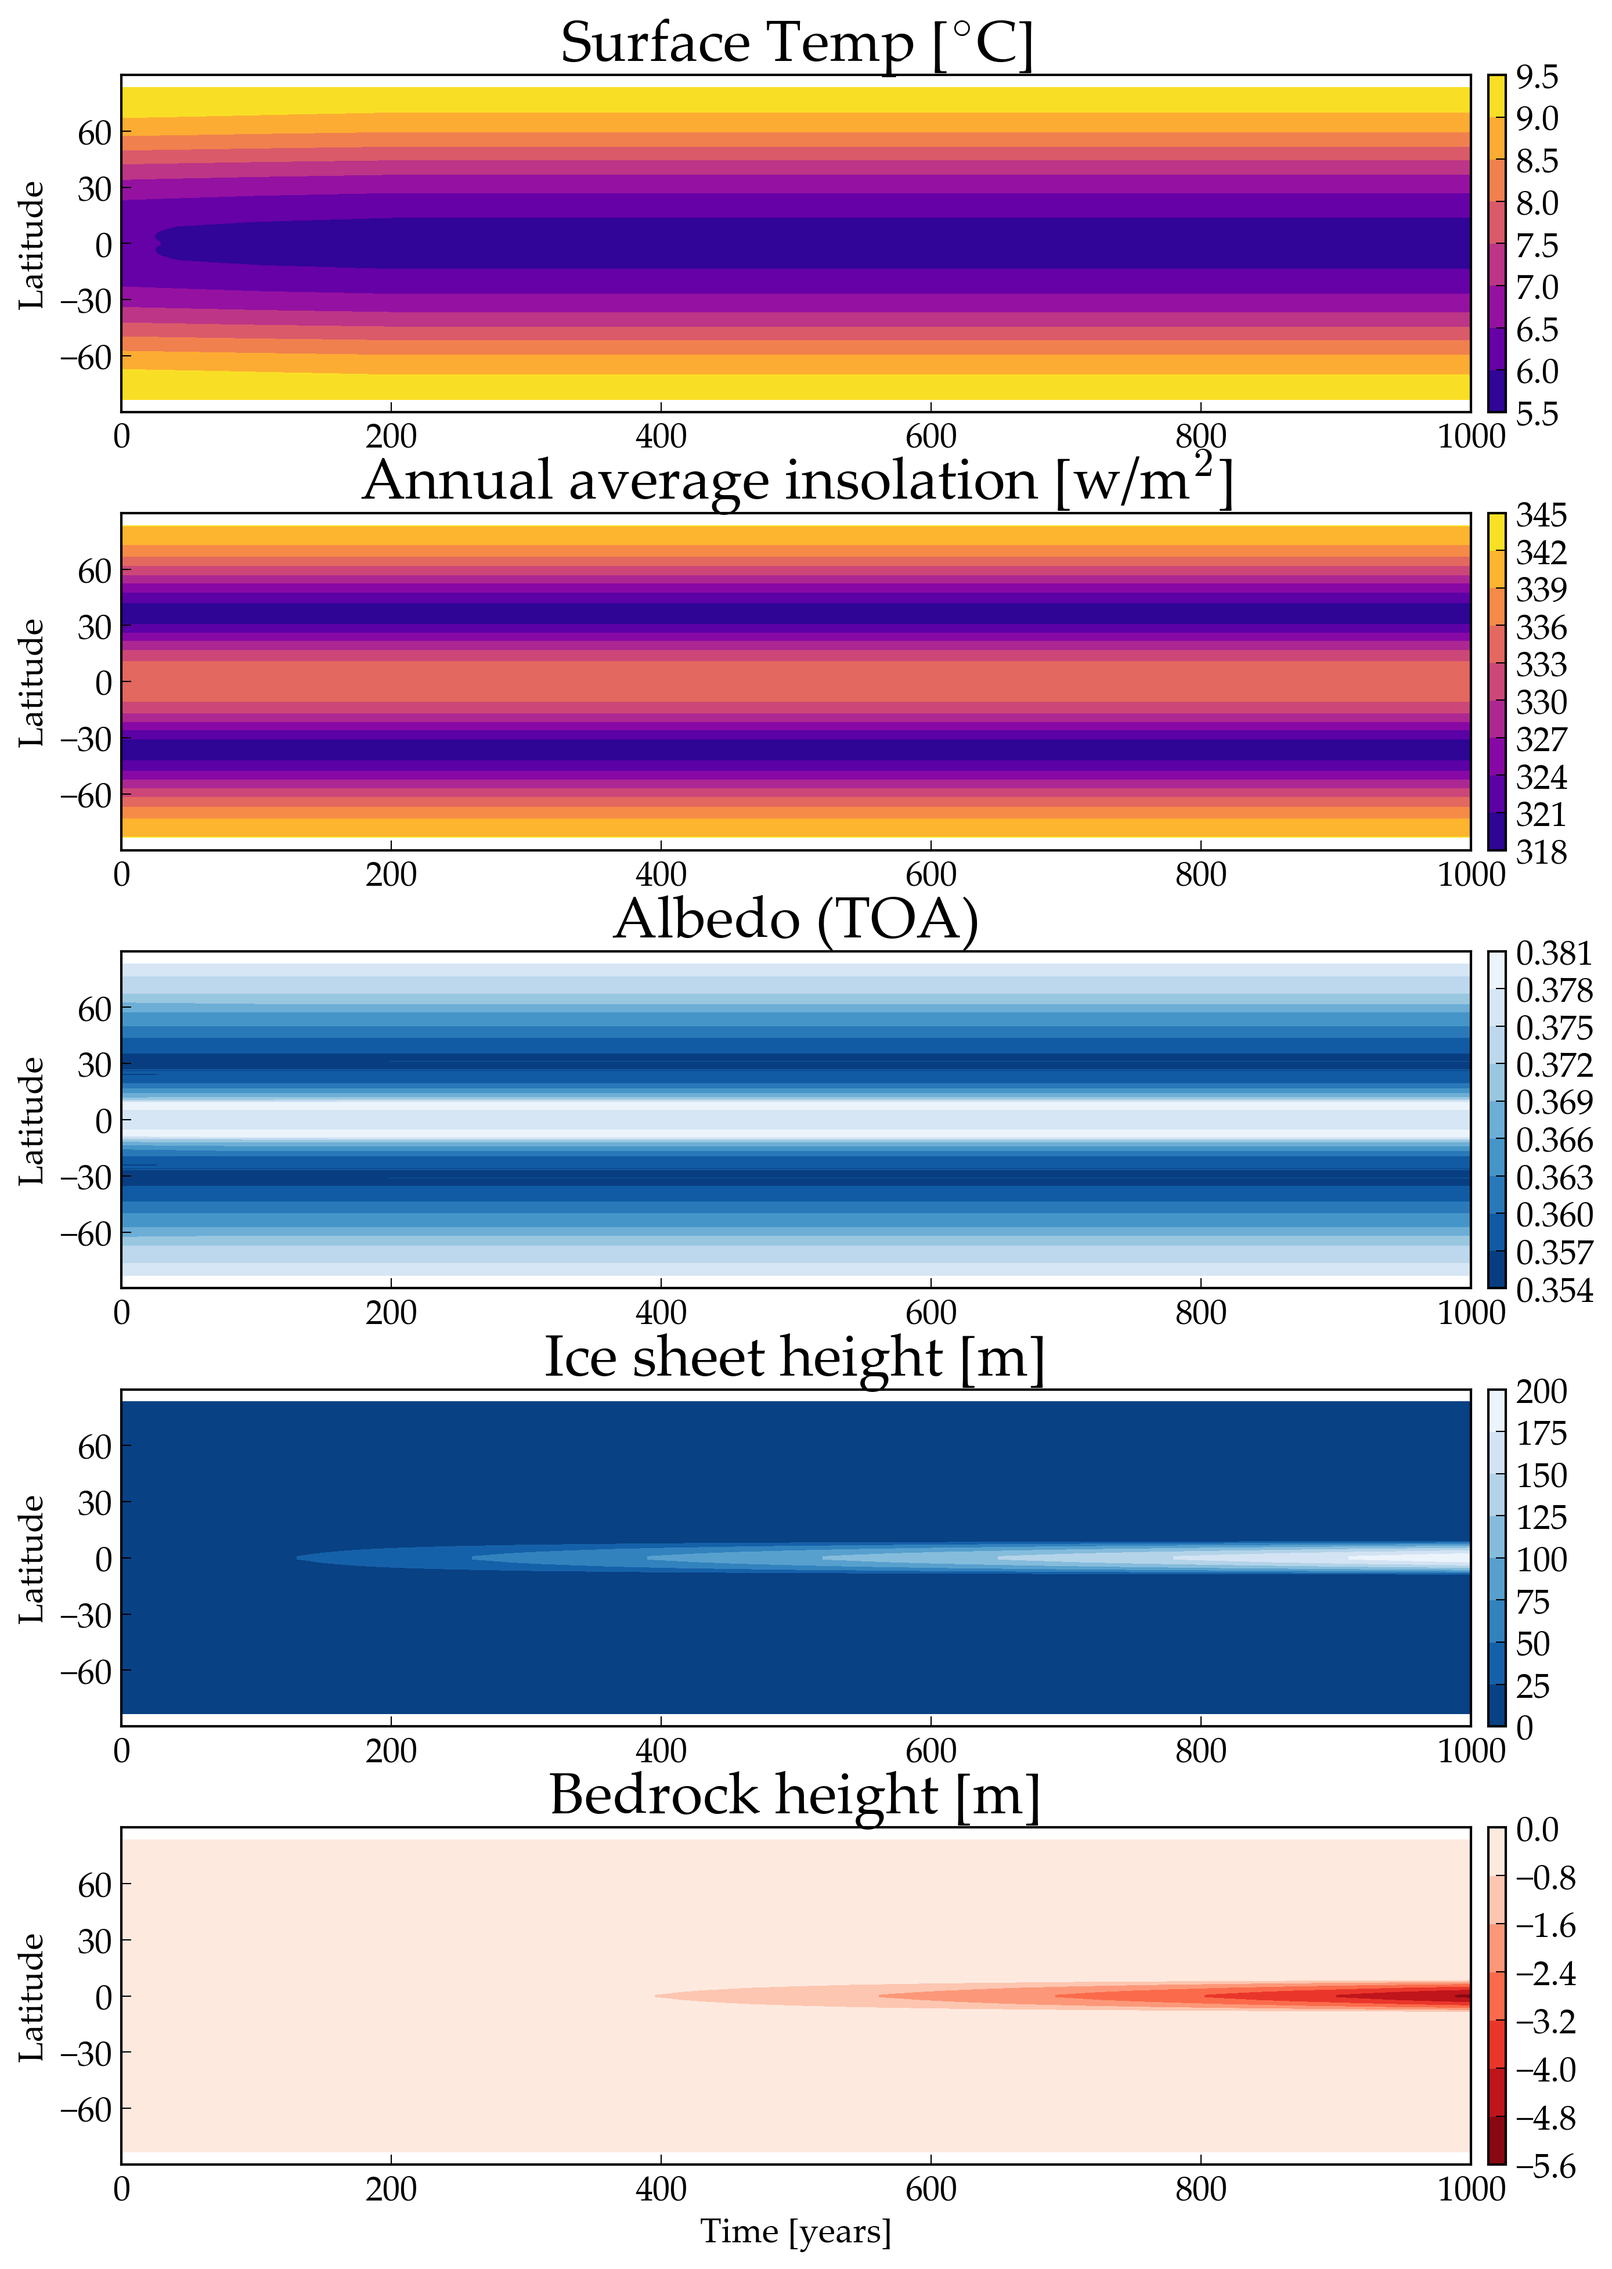
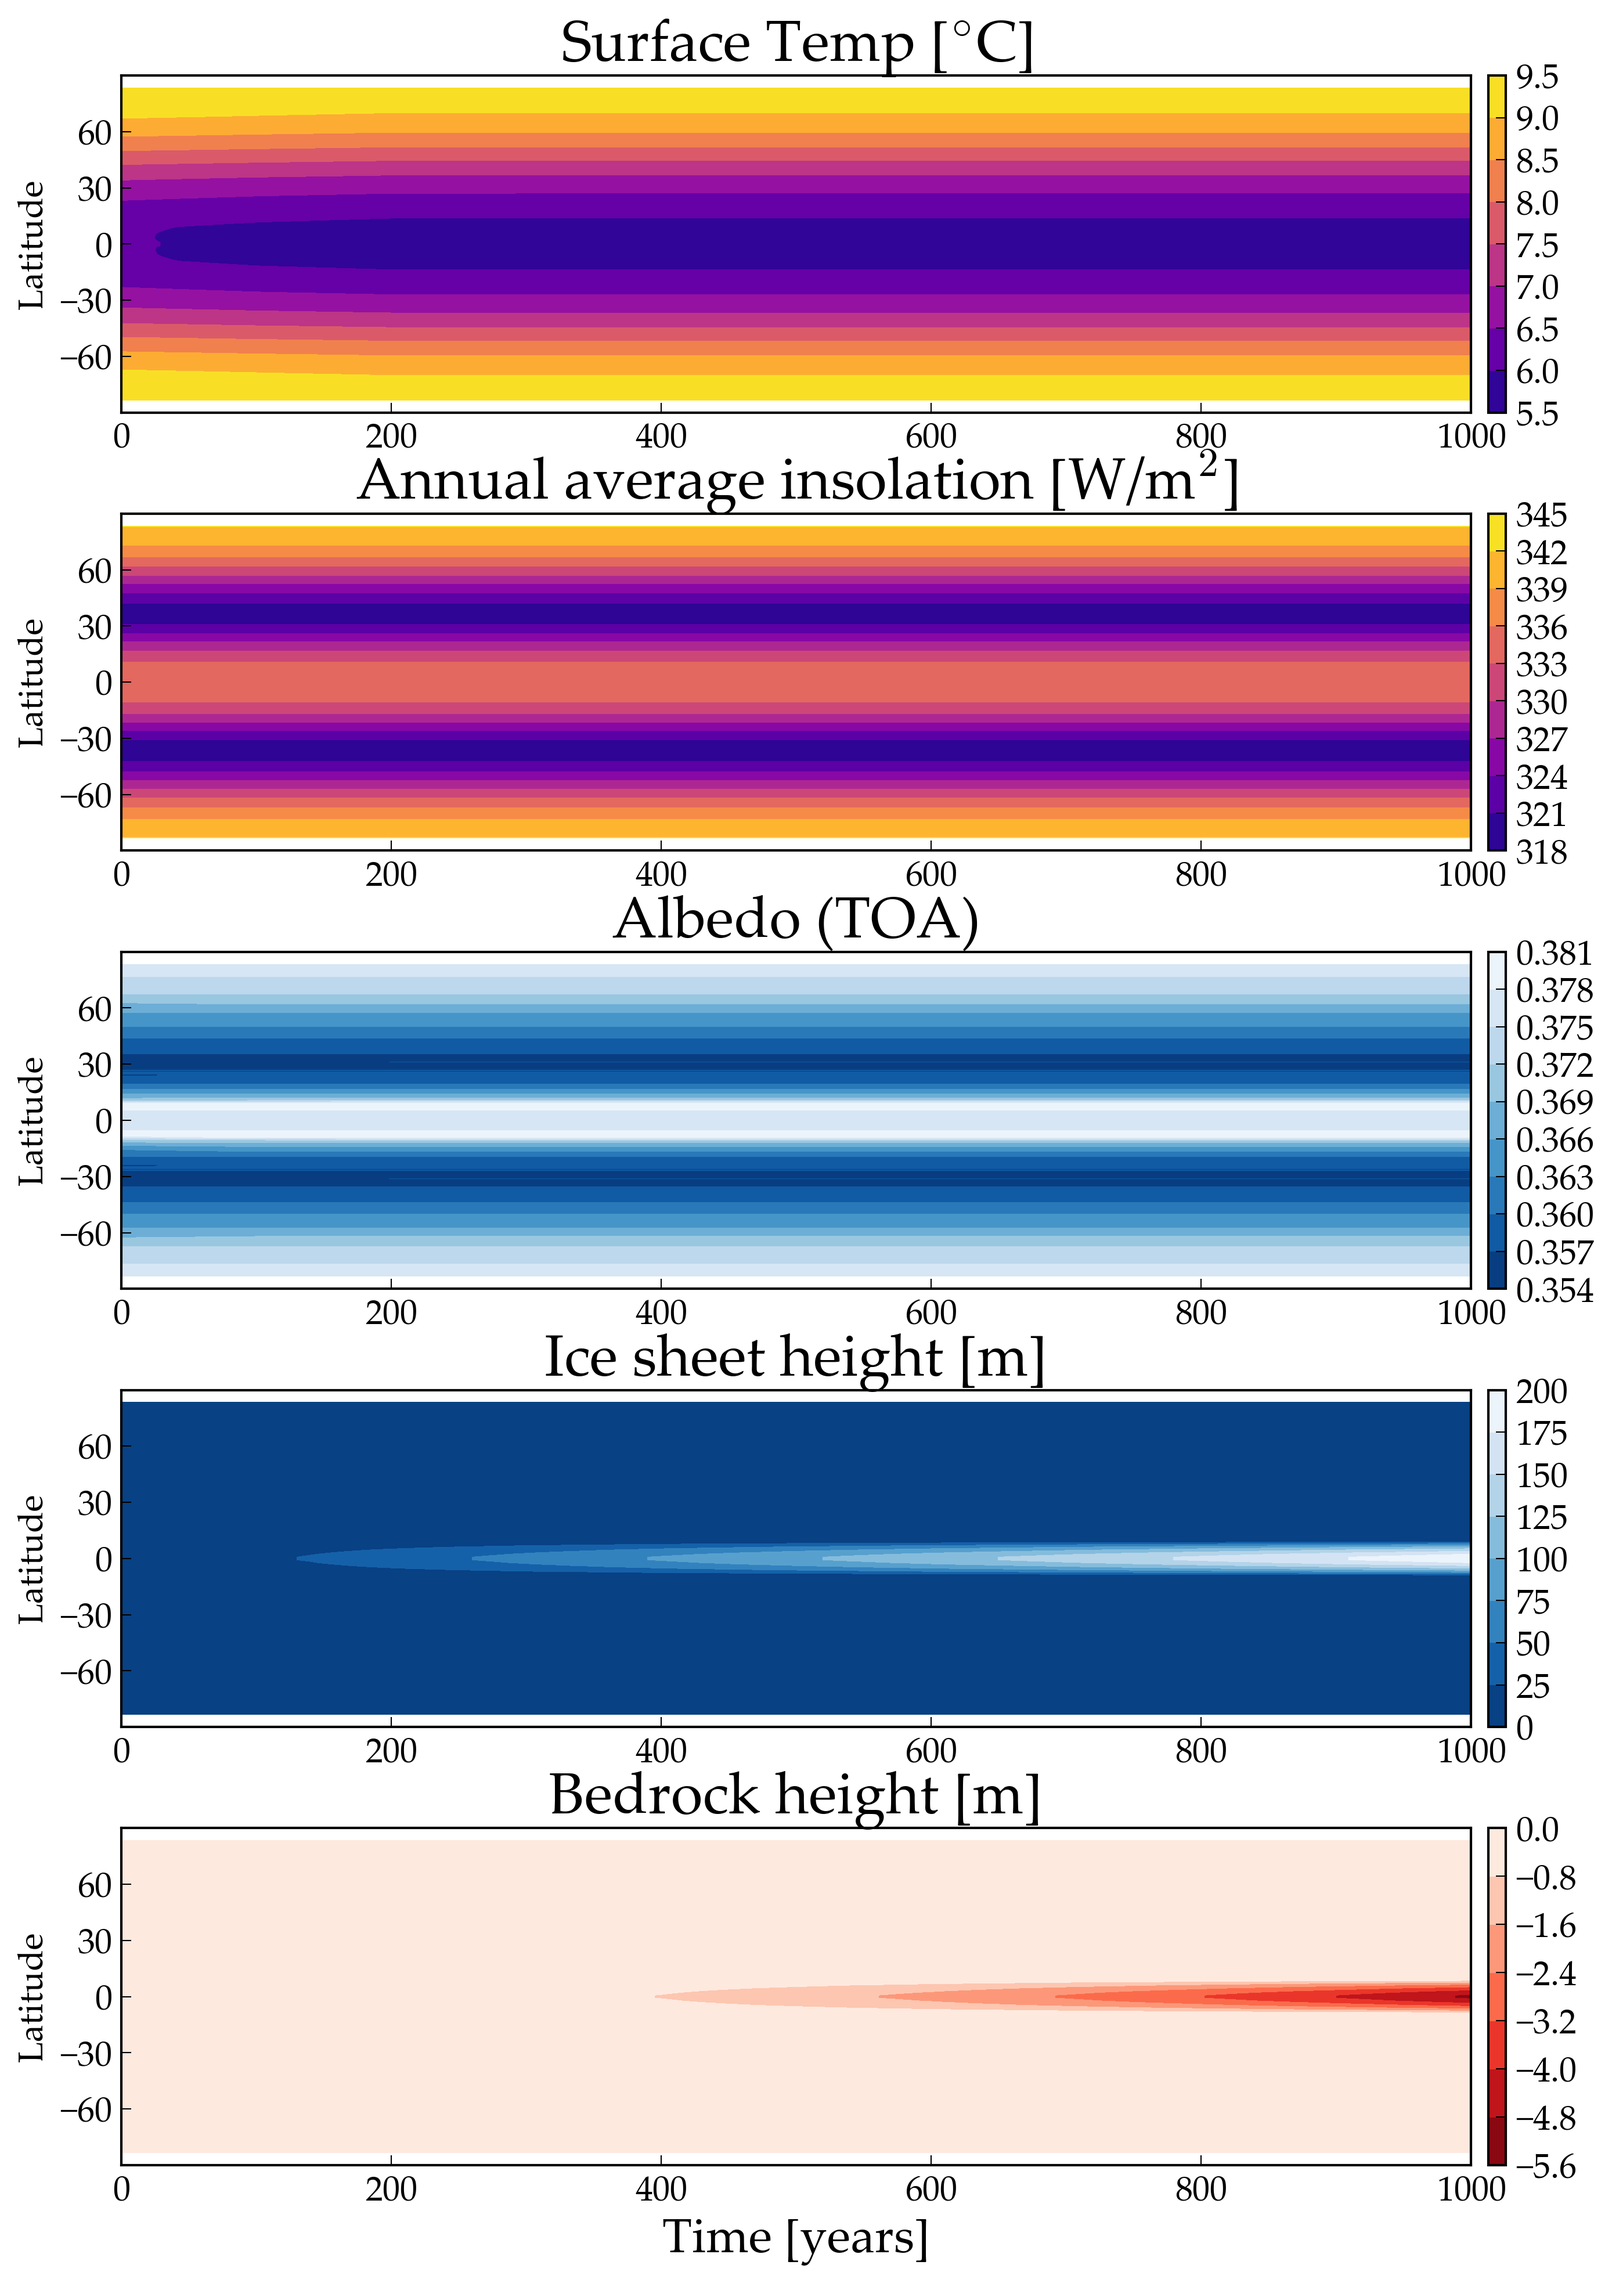
Checked formation of polar ice caps and it works for Earth.
Tidied examples/IceBelts.

diff --git a/examples/IceBelts/makeplot.py b/examples/IceBelts/makeplot.py
@@ -187,7 +187,7 @@ def clim_evol(plname,dir='.',xrange=False,orbit=False,show=True):
     plt.title('Bedrock height [m]')
     plt.ylim(-90,90)
     plt.yticks([-60,-30,0,30,60])
-    plt.xlabel('Time [years]')
+    plt.xlabel('Time [years]',fontsize=20)
     if xrange:
       plt.xlim(xrange)
     plt.colorbar(c,cax=plt.axes([pos[1,0]+0.01,pos[0,1],0.01,pos[1,1]-pos[0,1]]))
@@ -202,7 +202,7 @@ def clim_evol(plname,dir='.',xrange=False,orbit=False,show=True):
     pos = ax5.figbox.get_points()
     c = plt.contourf(body.Time,lats,insol.T,cmap='plasma')
     plt.ylabel('Latitude')
-    plt.title(r'Annual average insolation [w/m$^2$]')
+    plt.title(r'Annual average insolation [W/m$^2$]')
     plt.ylim(-90,90)
     plt.yticks([-60,-30,0,30,60])
     if xrange:
@@ -291,8 +291,8 @@ def seasonal_maps(time, dir = '.', show = True):
         tempf = dirf+'/'+sysname+'.'+plname+'.SeasonalTemp.'+timestamp
         icef = dirf+'/'+sysname+'.'+plname+'.SeasonalIceBalance.'+timestamp
         check = 1
-    print(insolf,tempf,icef)
-    exit()
+    #print(insolf,tempf,icef)
+    #exit()
 
     if check == 0:
       raise StandardError('Climate data not found for time %f'%time)
@@ -342,27 +342,30 @@ def seasonal_maps(time, dir = '.', show = True):
     #fig.suptitle('Time = %f, Obl = %f, Ecc = %f, LongP = %f'%(time,obl,ecc,longp),fontsize=20)
     plt.subplot(1,3,1)
     fig.subplots_adjust(wspace=0.3)
-    plt.title(r'Insolation [W/m$^2$] (1 orbit)',fontsize=12)
+    plt.title(r'Insolation [W/m$^2$]',fontsize=12)
     c1=plt.contourf(np.arange(np.shape(insol)[1]),lats,insol,cmap='plasma')
     plt.colorbar(c1)
     plt.ylim(lats[0],lats[-1])
+    plt.xlabel('Time (days)')
     plt.ylabel('Latitude (degrees)')
 
     scale = 4*np.shape(insol)[1]/np.shape(temp)[1]
     plt.subplot(1,3,2)
     c2=plt.contourf(np.arange(np.shape(temp)[1])*scale,lats,temp,cmap='plasma')
-    plt.title(r'Surface Temp [$^{\circ}$C] (1 orbit)',fontsize=12)
+    plt.title(r'Surface Temp [$^{\circ}$C]',fontsize=12)
     plt.colorbar(c2)
     plt.ylim(lats[0],lats[-1])
     plt.ylabel('Latitude (degrees)')
+    plt.xlabel('Time (days)')
     plt.xlim(0,np.shape(temp)[1]*scale/4.)
 
     scale = np.shape(insol)[1]/np.shape(ice)[1]
     plt.subplot(1,3,3)
     c3=plt.contourf(np.arange(np.shape(ice)[1])*scale,lats,ice,cmap='Blues_r')
-    plt.title(r'Ice balance [kg/m$^2$/s] (1 orbit)',fontsize=12)
+    plt.title(r'Ice balance [kg/m$^2$/s]',fontsize=12)
     plt.colorbar(c3)
     plt.ylim(lats[0],lats[-1])
+    plt.xlabel('Time (days)')
     plt.ylabel('Latitude (degrees)')
 
     if (sys.argv[1] == 'pdf'):
@@ -376,5 +379,7 @@ def seasonal_maps(time, dir = '.', show = True):
 
 
 #makes the plots
+print("Making evolution plot.")
 clim_evol('earth',show=False)
+print("Making seasonal plot.")
 seasonal_maps(0,show=False)

diff --git a/examples/IceBelts/README.rst b/examples/IceBelts/README.rst
@@ -13,7 +13,9 @@ Formation on an ice belt on a terretrial planet with high obliquity
 **Approx. runtime**   15 Seconds
 ===================   ============
 
-This example validates **VPLanet**'s 1-D climate model by reproducing Figure 2 of  `Rose et. al (2017) <https://iopscience.iop.org/article/10.3847/1538-4357/aa8306/meta#apjaa8306s2>`_.
+This example validates **VPLanet**'s 1-D climate model by reproducing Figure 2
+of  `Rose et. al (2017)
+<https://iopscience.iop.org/article/10.3847/1538-4357/aa8306/meta#apjaa8306s2>`_.
 
 
 To run this example
@@ -38,8 +40,8 @@ over the course of the simulation the equator is colder than the poles, promotin
 ice formation. The annual average insolation (2nd panel) shows the amount
 of solar radiation reaching the surface: over the course of the simulation,
 the ice belt forms because the equator receives *less* solar radiation than the poles.
-Albedo (3rd panel) shows the reflectiveness of the planet’s surface (ice is
-more reflective than water and land). Ice sheet height (4th panel), shows that
+Albedo (3rd panel) shows the reflectiveness of the planet a the top of the
+atmosphere (TOA). Ice sheet height (4th panel), shows that
 the ice sheet grows in height to approx 200m.  The bedrock height (5th panel)
 shows that as the ice sheet grows in height, it compresses the bedrock downward,
 i.e. the values are negative.
